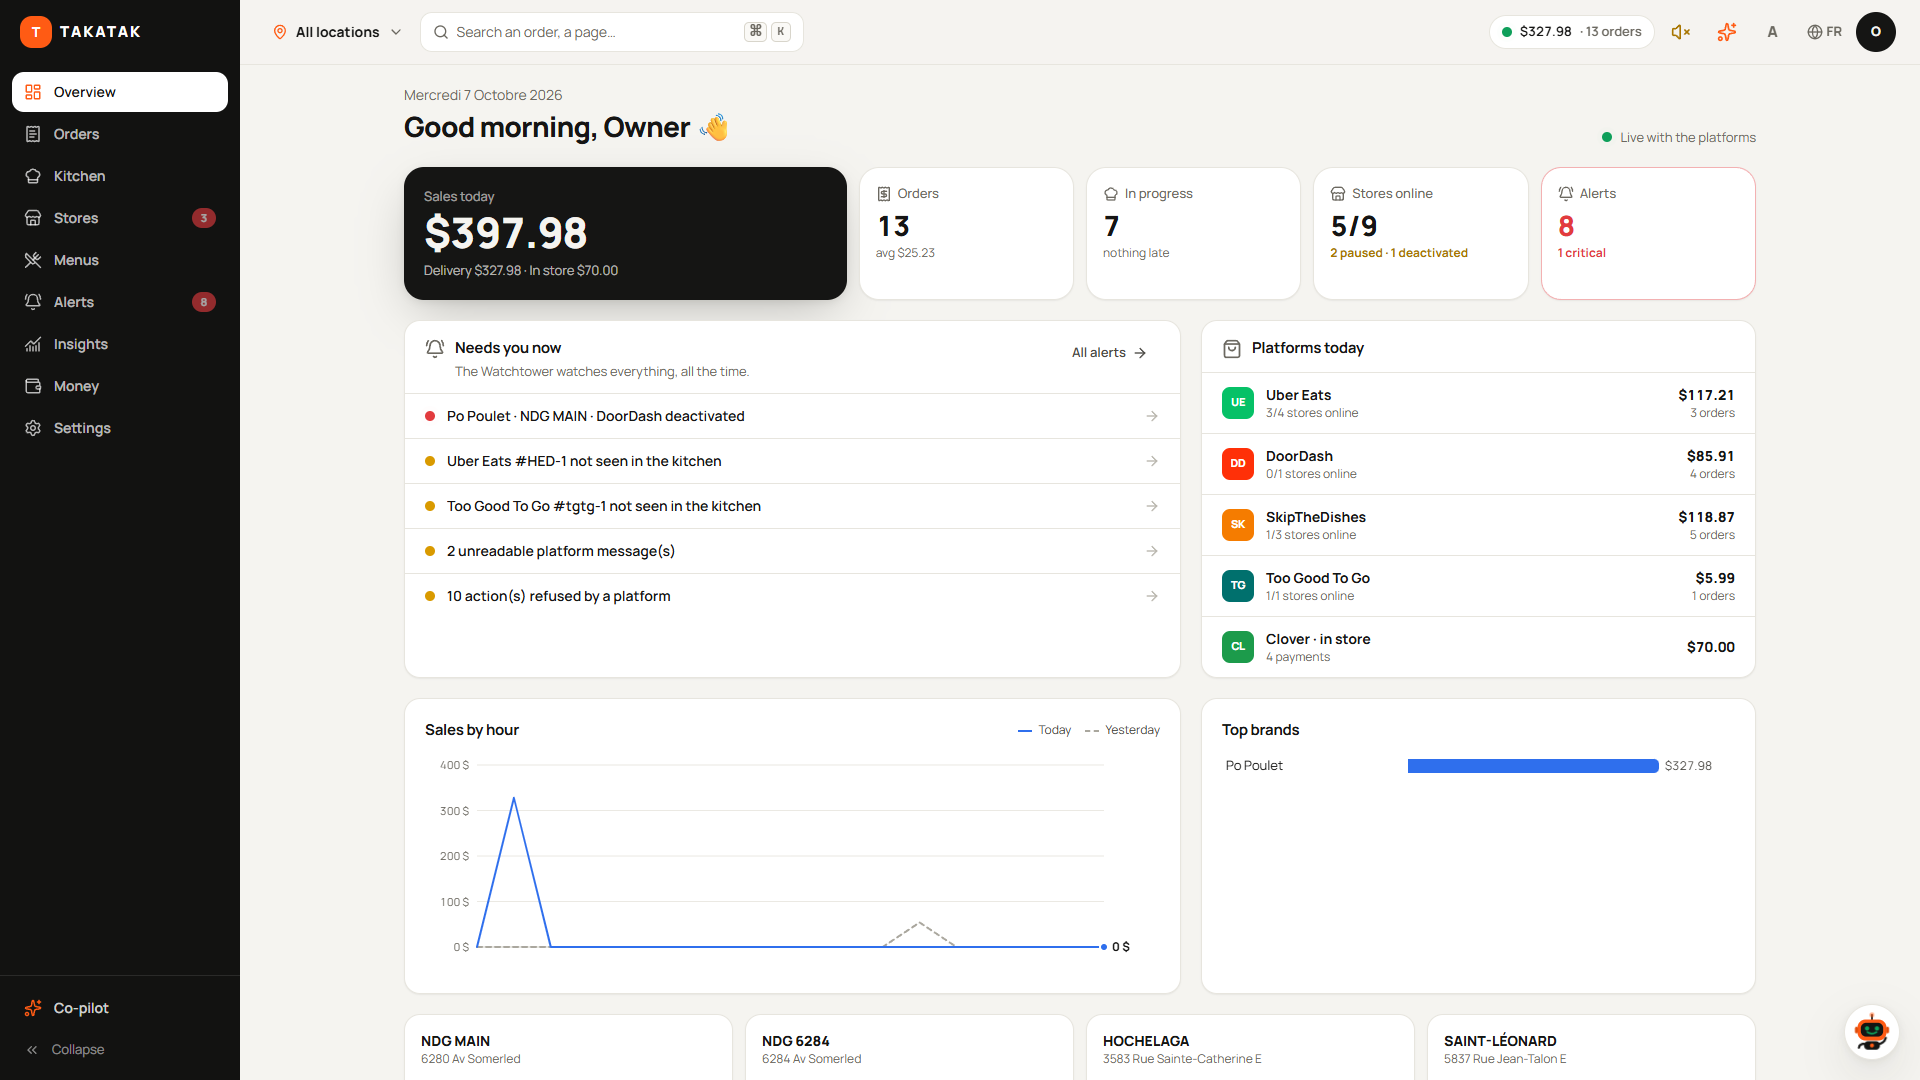
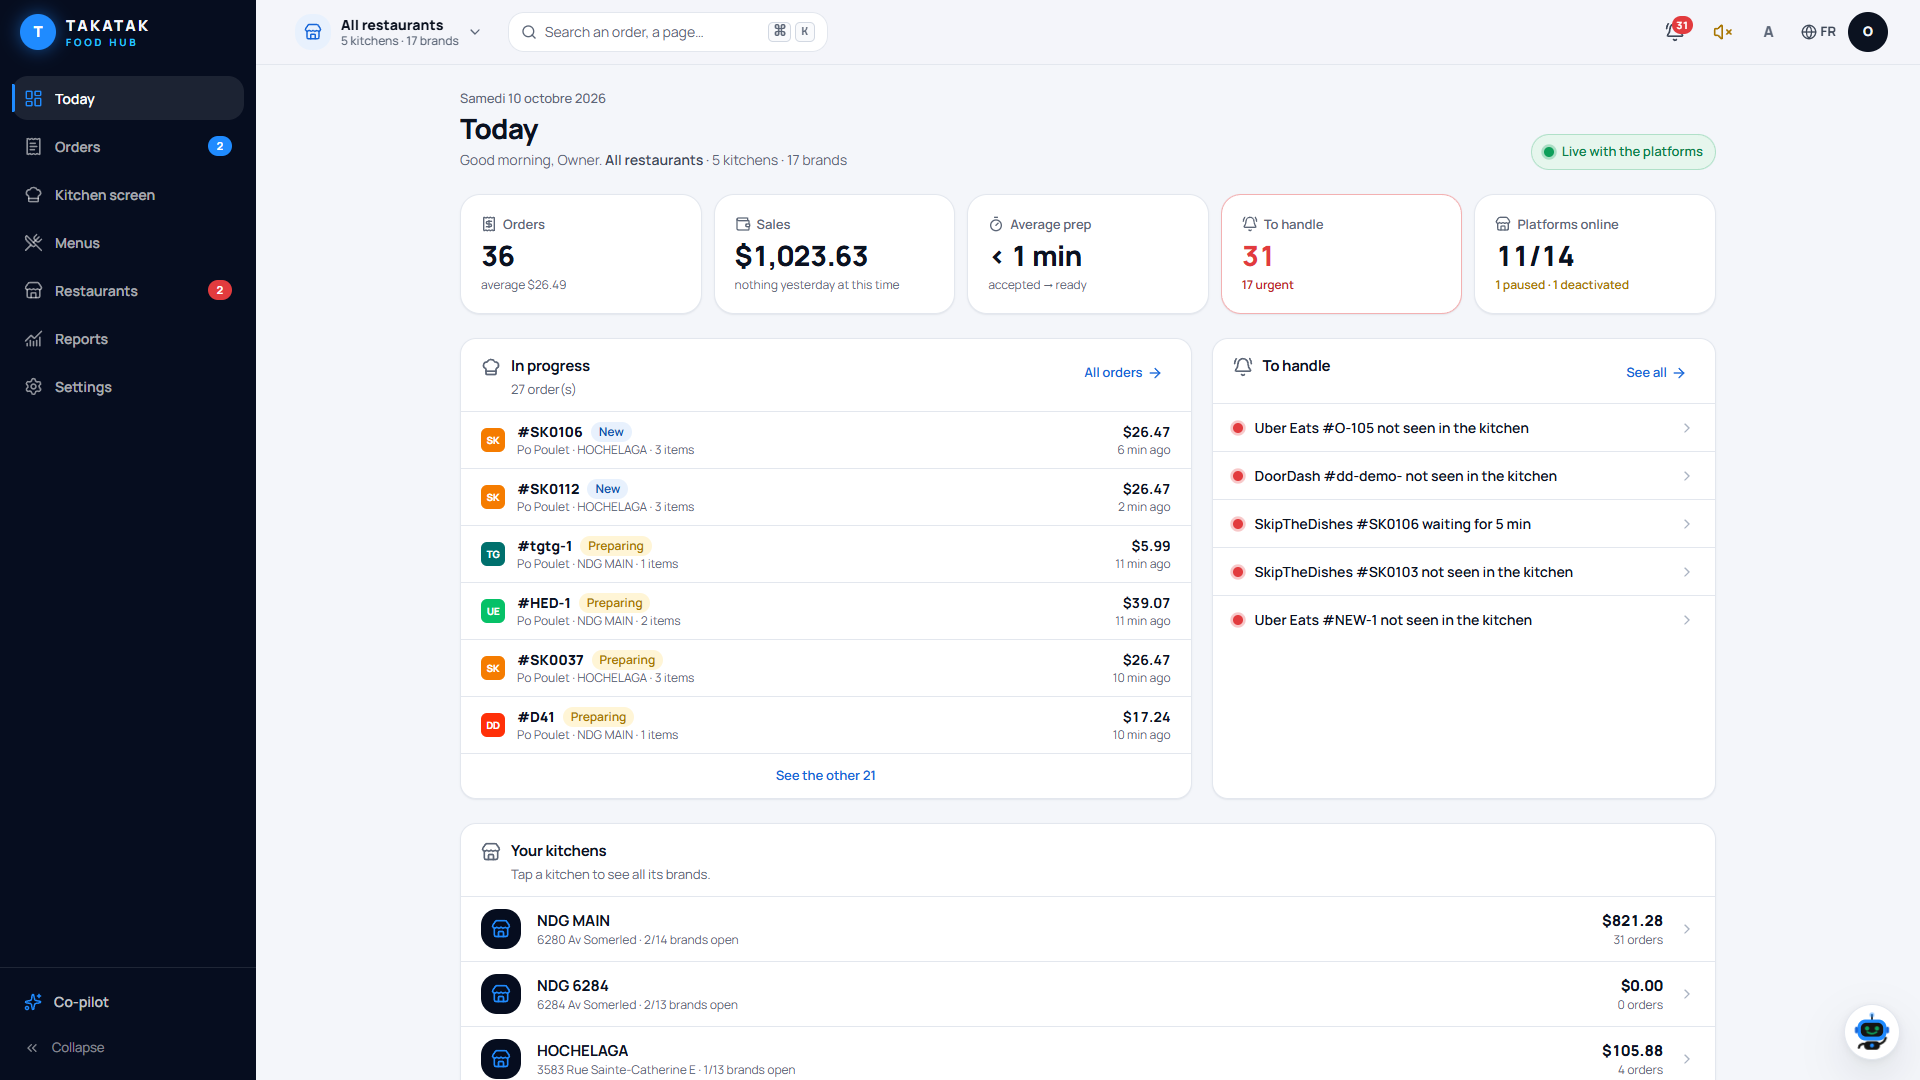
docs(clover): App Market listing refreshed on the new console and the TAKATAK blue brand (task 31)
- 22 screenshots (11 FR + 11 EN, 1920x1080) recaptured from the built-in demo on current main: scope switcher,
  "Today" home, blue brand (PR #29). The menu shot opens the brand with the demo's imported menu; demo items with
  made-up photo URLs show the console's "no photo" placeholder.
- Cover 1080x216 redone in the BRAND.md palette (navy, electric blue, cyan); no Clover mark, no logo redraw.
- Welcome and legal pages (what Clover reviewers open) show the console's blue TAKATAK mark
  (components/brand/takatak-mark.tsx) instead of the old orange icon; the welcome glow is blue.
- LISTING_APP_NAME = CLOVER_APP_NAME (product.ts): the listing name can never drift from the protected name.
- Launch doc: status on 2026-10-10 (dashboard settings + webhook App/Inventory/Orders done by task 27; what is left
  for the owner), icon to replace once the official logo files exist.

diff --git a/app/welcome/clover/welcome-view.tsx b/app/welcome/clover/welcome-view.tsx
@@ -6,6 +6,7 @@ import {
   ArrowRight, Check, CircleAlert, ExternalLink, Globe, Hourglass, Layers, Loader2, Lock, Mail, MonitorSmartphone,
   PartyPopper, Phone, PlugZap, Printer, Receipt, ShieldCheck, Store, Tablet, Tags, UtensilsCrossed, X,
 } from 'lucide-react';
+import { TakatakMark } from '@/components/brand/takatak-mark';
 import { buttonClass } from '@/components/ui/button';
 import { useI18n } from '@/lib/i18n/client';
 import { cn } from '@/lib/ui/cn';
@@ -56,11 +57,10 @@ export function WelcomeView({ data }: { data: WelcomeData }) {
     <div className="grid min-h-dvh grid-cols-1 bg-canvas text-ink lg:grid-cols-[minmax(0,0.85fr)_minmax(0,1.25fr)]">
       <Rail t={t} />
       <main className="relative flex min-w-0 flex-col px-4 pt-5 pb-8 sm:px-10">
-        <div className="pointer-events-none absolute inset-x-0 top-0 h-72 bg-[radial-gradient(60%_100%_at_70%_0%,rgb(255_91_20/0.08),transparent)]" aria-hidden />
+        <div className="pointer-events-none absolute inset-x-0 top-0 h-72 bg-[radial-gradient(60%_100%_at_70%_0%,rgb(31_139_255/0.08),transparent)]" aria-hidden />
         <header className="relative flex items-center justify-between gap-3">
           <span className="flex items-center gap-2 lg:invisible">
-            {/* eslint-disable-next-line @next/next/no-img-element */}
-            <img src="/icons/icon-192.png" alt="" className="size-8 rounded-lg" />
+            <TakatakMark size="sm" />
             <span className="font-extrabold tracking-tight">TAKATAK Food Hub</span>
           </span>
           <button type="button" onClick={() => setLang(lang === 'fr' ? 'en' : 'fr')} className="flex h-9 items-center gap-1.5 rounded-md px-2.5 text-[13px] font-bold text-ink-3 hover:bg-sunken hover:text-ink" aria-label={lang === 'fr' ? 'Switch to English' : 'Passer au français'}>
@@ -93,8 +93,7 @@ function Rail({ t }: { t: T }) {
   return (
     <aside className="relative hidden overflow-hidden bg-rail p-10 text-white lg:sticky lg:top-0 lg:flex lg:h-dvh lg:flex-col xl:p-12">
       <div className="flex items-center gap-3">
-        {/* eslint-disable-next-line @next/next/no-img-element */}
-        <img src="/icons/icon-192.png" alt="" className="size-10 rounded-xl" />
+        <TakatakMark />
         <div>
           <div className="text-lg leading-tight font-extrabold tracking-tight">TAKATAK Food Hub</div>
           <div className="text-[13px] text-white/50">{t('pour votre caisse Clover', 'for your Clover register')}</div>

diff --git a/app/legal/layout.tsx b/app/legal/layout.tsx
@@ -1,5 +1,6 @@
 import Link from 'next/link';
 import type { ReactNode } from 'react';
+import { TakatakMark } from '@/components/brand/takatak-mark';
 import { legalInfo, LEGAL_PATHS } from '@/lib/foodhub/legal';
 
 export const dynamic = 'force-dynamic';
@@ -13,8 +14,7 @@ export default function LegalLayout({ children }: { children: ReactNode }) {
       <header className="border-b border-line bg-surface">
         <div className="mx-auto flex max-w-3xl flex-wrap items-center justify-between gap-3 px-4 py-3">
           <Link href={LEGAL_PATHS.support} className="flex items-center gap-2 font-extrabold tracking-tight">
-            {/* eslint-disable-next-line @next/next/no-img-element */}
-            <img src="/icons/icon-192.png" alt="" className="size-8 rounded-lg" />
+            <TakatakMark size="sm" />
             {info.appName}
           </Link>
           <nav className="flex flex-wrap gap-4 text-sm font-semibold text-ink-2">

diff --git a/lib/foodhub/clover-listing.ts b/lib/foodhub/clover-listing.ts
@@ -3,9 +3,12 @@
 // in Settings → Clover app; docs/CLOVER_APP_LISTING.md carries the same text (tests keep the two in step and check
 // Clover's limits: tagline ≤ 255 characters, 3 to 5 benefits of ≤ 100 characters, no "Clover" in the app name).
 
+import { CLOVER_APP_NAME } from './product';
+
 export type Bilingual = { fr: string; en: string };
 
-export const LISTING_APP_NAME = 'TAKATAK Food Hub';
+/** The listing name is protected: it never follows FOODHUB_PRODUCT_NAME (renaming it needs a new Clover review). */
+export const LISTING_APP_NAME = CLOVER_APP_NAME;
 
 export const LISTING_TAGLINE: Bilingual = {
   fr: 'Uber Eats, DoorDash, SkipTheDishes et Too Good To Go directement dans votre caisse Clover : un seul écran, des menus et des ruptures synchronisés, des paiements vérifiés.',

diff --git a/components/brand/takatak-mark.tsx b/components/brand/takatak-mark.tsx
@@ -1,0 +1,16 @@
+import { cn } from '@/lib/ui/cn';
+
+/**
+ * GROUPE TAKATAK mark (BRAND.md), as the console's sidebar draws it: a white T in a glowing electric-blue circle.
+ * Used on the public pages Clover reviewers open (welcome, legal), so they match the console. Replace with the
+ * official logo files (knowledgeAI/brand/) once the owner uploads them.
+ */
+export function TakatakMark({ size = 'md', className }: { size?: 'sm' | 'md'; className?: string }) {
+  return (
+    <span aria-hidden className={cn(
+      'flex shrink-0 items-center justify-center rounded-full bg-electric font-black text-white shadow-[0_0_18px_rgb(31_139_255/0.55)]',
+      size === 'sm' ? 'size-8 text-[14px]' : 'size-10 text-[17px]',
+      className,
+    )}>T</span>
+  );
+}

diff --git a/docs/CLOVER_MARKETPLACE_LAUNCH.md b/docs/CLOVER_MARKETPLACE_LAUNCH.md
@@ -1,6 +1,17 @@
 # Clover App Market launch — TAKATAK Food Hub
 
-_Updated 2026-10-07 · branch `clover-marketplace-launch`._
+_Updated 2026-10-10 (listing refresh). First written 2026-10-07 on branch `clover-marketplace-launch` (merged, PR #7)._
+
+> **Where it stands on 2026-10-10**
+> - **Done:**
+>   - the code is live on `https://foodhub.on2go.ca`;
+>   - the Clover developer dashboard has the Site URL, launch path, OAuth `CODE` and the webhook (verified; events
+>     App, Inventory and Orders), set by the Clover backend session (task 27);
+>   - the listing screenshots and cover were redone on the new console and the TAKATAK blue brand.
+> - **Waiting on the owner** (task 27):
+>   - sign in to the console and connect / approve your Clover merchant;
+>   - put `CLOVER_WEBHOOK_AUTH` in Coolify and restart;
+>   - then the steps in §4 from 3 (environment, legal review, listing tabs, video, submit).
 
 Requirements come from Clover's Global Developer Platform pages on docs.clover.com (pages dated March to September
 2026, read on 2026-10-07; links in §10). Anything Clover does not state on an official page is marked **to confirm**.
@@ -133,8 +144,9 @@ answering is a listed rejection reason.
 | Verification code flow | ✅ | The code is stored and shown in Settings → Platforms & Clover; paste it back in Clover. |
 | `X-Clover-Auth` checked on every event | ✅ | Constant-time compare with `CLOVER_WEBHOOK_AUTH`; anything else gets a 401. |
 | App events: install, uninstall, subscription change | ✅ **new** | CREATE is logged, DELETE removes the tokens, UPDATE re-reads `billing_info`. |
+| Orders events | ✅ | Subscribed too (2026-10-09): orders taken by Clover Online Ordering on the brand websites are mirrored on the kitchen screen (`docs/CLOVER_WEBSITE_ORDERS.md`). Covered by the Orders permission. |
 | Inventory events | ✅ | Item out of stock → 86 on every platform, and back when it returns. |
-| Set the URL, events (Inventory, App), verify | 👤 | Clover dashboard, once the domain is live (§4 step 5). |
+| Set the URL, events (Inventory, App, Orders), verify | ✅ | Done 2026-10-09/10 on `https://foodhub.on2go.ca` (task 27). Left: `CLOVER_WEBHOOK_AUTH` in Coolify. |
 
 ### 2.5 Billing and pricing
 
@@ -151,9 +163,9 @@ answering is a listed rejection reason.
 |---|---|---|
 | Tagline ≤ 255, 3–5 benefits ≤ 100 each, description stating requirements | ✅ | `lib/foodhub/clover-listing.ts` and `CLOVER_APP_LISTING.md`. A test checks the limits and that both files say the same thing. |
 | French (Canada) + English (Canada) + English (US) tabs | 🟡 | FR-CA and EN-US were saved on 2026-10-05. Add **EN-CA**, and update all three with the new texts (the description now has a requirements paragraph). |
-| Icon: square PNG, no Clover/Fiserv marks, cannot be deleted | ✅ | `clover-listing/icon-512.png` (already uploaded). |
-| Cover image 1080 × 216 (optional, cannot be deleted) | ✅ | `clover-listing/cover-1080x216.png`. It carries no Clover mark. Upload it only if you like it: it is permanent. |
-| Screenshots ≤ 1920 × 1080, ≥ 320 px | ✅ | `clover-listing/fr/` and `en/`: 11 each at 1920 × 1080, from the demo (simulated data). Replace the 8 already uploaded. |
+| Icon: square PNG, no Clover/Fiserv marks, cannot be deleted | 🟡 👤 | The uploaded icon is the old orange mark. The brand is now TAKATAK blue (`BRAND.md`), but the official logo files are not uploaded yet (`knowledgeAI/brand/`), and `BRAND.md` forbids a redrawn copy. Once they are, make a 512 × 512 PNG from `logo-circle.png` and **replace** the icon in Clover (it can be replaced, not deleted). |
+| Cover image 1080 × 216 (optional, cannot be deleted) | ✅ | `clover-listing/cover-1080x216.png`, redone 2026-10-10 in the TAKATAK palette (navy, electric blue, cyan). It carries no Clover mark. Upload it only if you like it: it is permanent. |
+| Screenshots ≤ 1920 × 1080, ≥ 320 px | ✅ | `clover-listing/fr/` and `en/`: 11 each at 1920 × 1080, **recaptured 2026-10-10** on the new console (scope switcher, "Today" home, blue brand), from the demo (simulated data). Replace the 8 already uploaded. |
 | Listing video (optional) | 👤 | Can reuse the functional video. |
 | Categories: ≥ 1 functional (≤ 3) and ≥ 1 vertical | 👤 ❓ | Orders & Delivery, Items & Inventory, Kitchen Operations / Quick Service and Full Service Restaurant. **For Canada, wait for the SRM answer (§5).** |
 | Functional description | ✅ / 👤 | In Settings → Clover app, with your support email filled in. Paste it on the Overview page. |
@@ -225,17 +237,19 @@ server with `npm run setup`, never in a chat.
    Restart. **Settings → Clover app** should show the domain as ✅.
 4. **Legal review.** Read `/legal/privacy`, `/legal/terms` and `/legal/support` with your adviser. Then set
    `FOODHUB_LEGAL_APPROVED=true` and `FOODHUB_LEGAL_UPDATED` to the date of the reviewed version.
-5. **Clover developer dashboard → app 629HFYHNVMZYR → App Settings.** Copy every address from Settings → Clover app.
-   - Site URL: `https://foodhub.on2go.ca`
-   - Alternate Launch Path: `/api/foodhub/clover-connect/callback`
-   - Default OAuth Response: `CODE`
-   - Webhook URL: `https://foodhub.on2go.ca/api/foodhub/webhooks/clover`, with events **Inventory** and **App**
-   - Then **Send Verification Code**, paste back the code shown in Food Hub, and put Clover's auth code in
-     `CLOVER_WEBHOOK_AUTH` (`npm run setup`).
+5. **Clover developer dashboard → app 629HFYHNVMZYR → App Settings** — done 2026-10-09/10 (task 27):
+   - Site URL `https://foodhub.on2go.ca`, Alternate Launch Path `/api/foodhub/clover-connect/callback`, Default OAuth
+     Response `CODE`;
+   - webhook `https://foodhub.on2go.ca/api/foodhub/webhooks/clover`, verified, with events **App**, **Inventory**,
+     **Orders**.
+   - **Left for you:** put Clover's auth code in `CLOVER_WEBHOOK_AUTH` in Coolify, then Restart.
+   - **Then connect your own merchant:** console → Settings → Platforms & Clover → **Connect a Clover merchant** →
+     Approve. Settings → Clover app should then show "Tested end to end" once you send a test order.
 6. **Permissions:** paste the four reasons.
 7. **App Market Listing:**
    - Tabs FR-CA, EN-CA and EN-US: tagline, benefits, description.
-   - Replace the screenshots with `clover-listing/fr` and `en`.
+   - Replace the screenshots with `clover-listing/fr` and `en` (recaptured 2026-10-10 on the new console).
+   - Icon: replace it with the official TAKATAK logo once the files exist (see §2.6).
    - EULA and privacy URLs on the new domain.
    - Categories (after §5).
    - Developer Support: email, phone, website `https://foodhub.on2go.ca/legal/support`, hours.
@@ -348,7 +362,8 @@ merchant with the demo platforms. Show the Clover device or Clover web dashboard
 | Phase 0 deploy traps | Supabase URL read at run time (`lib/supabase/server.ts`), `SESSION_SECRET` no longer generated at run time (task 9: env value, else derived from `DASHBOARD_PASSWORD`), media `VOLUME` (`Dockerfile`), `.env.example`, setup wizard |
 | Fixes found on the way | A zero alert volume crashed the console (`lib/ui/sound.ts`); English-only disconnect confirmation; contrast token |
 | Tests | `tests/clover-app.test.ts`, `tests/clover-marketplace.test.ts`, e2e step 37 |
-| Assets | `docs/clover-listing/` (icon, cover, 11 + 11 screenshots) |
+| Assets | `docs/clover-listing/` (icon, cover, 11 + 11 screenshots; screenshots and cover redone 2026-10-10, branch `docs/clover-listing-refresh`) |
+| Brand mark on public pages | `components/brand/takatak-mark.tsx`: the welcome and legal pages show the console's blue TAKATAK mark instead of the old orange icon (2026-10-10) |
 
 ---
 

diff --git a/docs/CLOVER_APP.md b/docs/CLOVER_APP.md
@@ -17,7 +17,7 @@ Developer account details (login, developer ID) are kept in the owner's private 
 | Alternate Launch Path | `/api/foodhub/clover-connect/callback` |
 | Default OAuth response | `CODE` |
 | Webhook URL | `https://YOUR-DOMAIN/api/foodhub/webhooks/clover`. Clover sends a verification code; Food Hub shows it in Settings → Platforms & Clover. |
-| Webhook events | **Inventory**, **App** (install, uninstall, subscription change) |
+| Webhook events | **Inventory**, **App** (install, uninstall, subscription change), **Orders** (Clover Online Ordering website orders, `docs/CLOVER_WEBSITE_ORDERS.md`). Set and verified 2026-10-09/10. |
 
 ## How a merchant connects
 
